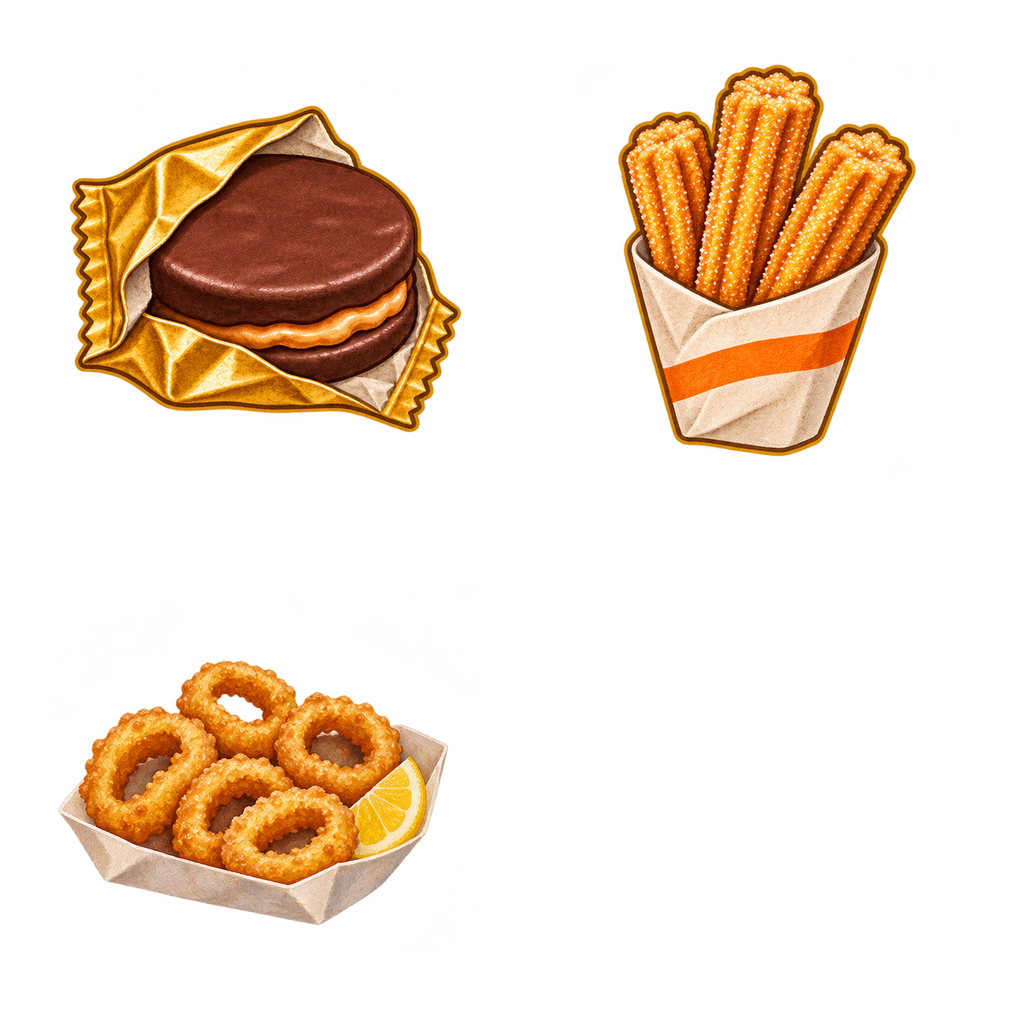
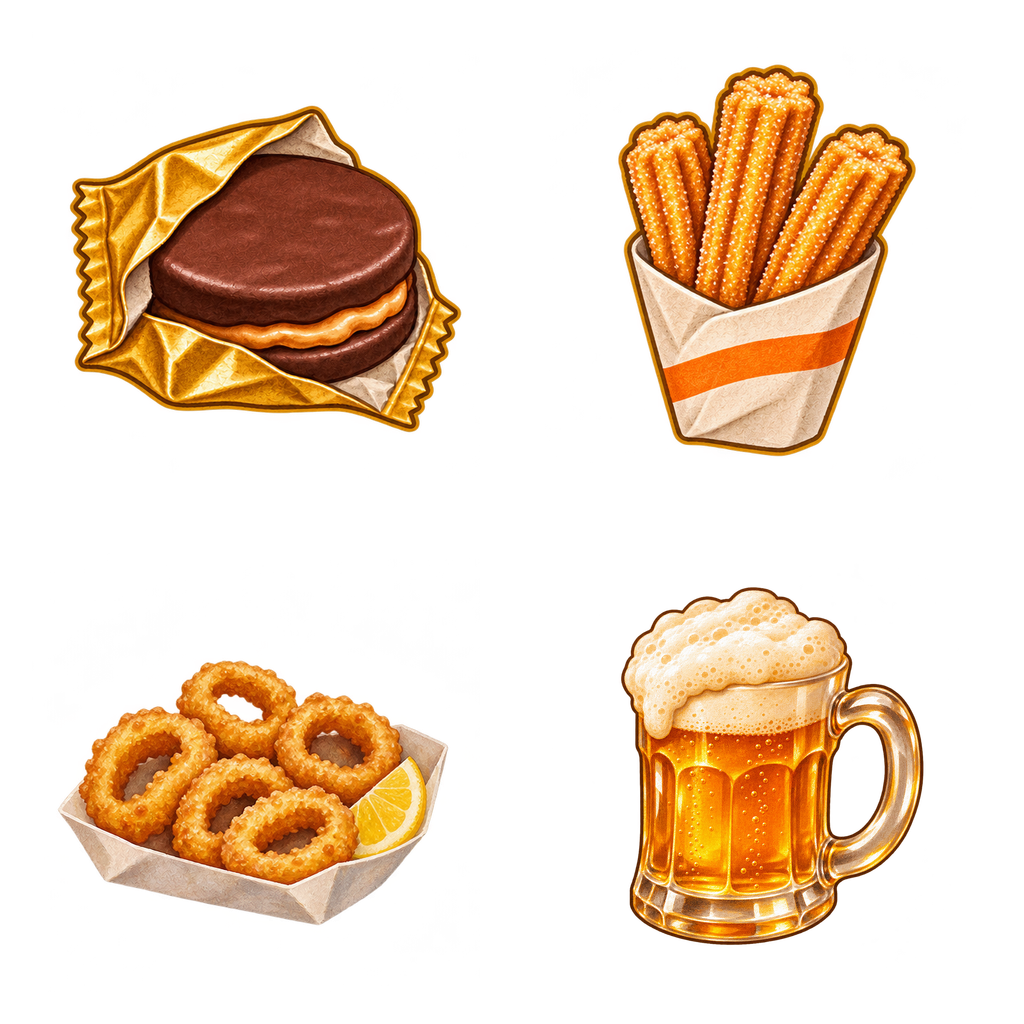
Fix mobile audio and controls, anchor columns, and diversify collectibles (#8)
* fix: align mobile audio and improve collectible variety

* fix: restore quiet input-driven bee wing feedback

* fix: synthesize harmonic bee buzz with AudioBits

* fix: remove bee movement sound

Changed region(s): [[0.5938, 0.5625, 0.9062, 0.9375]]

diff --git a/tests/browser/game.spec.ts b/tests/browser/game.spec.ts
@@ -1,6 +1,116 @@
 import { test, expect } from '@playwright/test';
 import { site } from '../../src/site.ts';
 
+declare global {
+  interface Window {
+    audioProbe: { contexts: AudioContext[]; resumes: string[]; oscillators: number; level(): number };
+  }
+}
+
+for (const touch of [false, true]) test.describe(touch ? 'touch audio' : 'desktop audio', () => {
+  test.use({ hasTouch: touch, viewport: touch ? { width: 390, height: 844 } : { width: 1280, height: 900 } });
+  test('movement stays silent while launch and pause/resume retain one audio context', async ({ page }) => {
+    const errors: string[] = [];
+    page.on('pageerror', error => errors.push(error.message));
+    const touchSession = touch ? await page.context().newCDPSession(page) : undefined;
+    await page.addInitScript(({ touch }) => {
+      const NativeContext = window.AudioContext;
+      let gesture = '';
+      for (const name of ['pointerdown', 'touchend', 'click', 'keydown']) {
+        window.addEventListener(name, () => {
+          gesture = name;
+          setTimeout(() => { gesture = ''; }, 0);
+        }, { capture: true });
+      }
+      const analysers: AnalyserNode[] = [];
+      const connect = AudioNode.prototype.connect;
+      AudioNode.prototype.connect = function (this: AudioNode, ...args: [AudioNode | AudioParam, number?, number?]) {
+        if (args[0] === this.context.destination) {
+          const analyser = analysers[window.audioProbe.contexts.indexOf(this.context as AudioContext)];
+          if (analyser) Reflect.apply(connect, this, [analyser]);
+        }
+        return Reflect.apply(connect, this, args);
+      } as typeof connect;
+      window.audioProbe = { contexts: [], resumes: [], oscillators: 0, level() {
+        const analyser = analysers[0];
+        if (!analyser) return 0;
+        const samples = new Float32Array(analyser.fftSize);
+        analyser.getFloatTimeDomainData(samples);
+        return Math.sqrt(samples.reduce((sum, sample) => sum + sample * sample, 0) / samples.length);
+      } };
+      window.AudioContext = class extends NativeContext {
+        constructor(options?: AudioContextOptions) {
+          super(options);
+          window.audioProbe.contexts.push(this);
+          const analyser = this.createAnalyser(); analyser.fftSize = 2048;
+          analysers.push(analyser);
+        }
+        resume() {
+          window.audioProbe.resumes.push(gesture);
+          // Model mobile eligibility explicitly: Chromium otherwise accepts a
+          // touch pointerdown that Safari/other mobile policies may reject.
+          if (touch && !['touchend', 'click', 'keydown'].includes(gesture)) return Promise.reject(new Error('Completed touch gesture required'));
+          return super.resume();
+        }
+        createOscillator() { window.audioProbe.oscillators++; return super.createOscillator(); }
+      };
+    }, { touch });
+    await page.goto('/');
+    const play = page.getByRole('button', { name: 'Play', exact: true });
+    await expect(play).toBeEnabled();
+    expect(await page.evaluate(() => window.audioProbe.contexts.length)).toBe(0);
+    if (touch) await play.tap(); else await play.click();
+    await expect(page.locator('.cloudwake-app')).toHaveAttribute('data-screen', 'playing');
+    await expect.poll(() => page.evaluate(() => window.audioProbe.contexts[0].state)).toBe('running');
+    await page.waitForTimeout(220);
+    expect(await page.evaluate(() => window.audioProbe.level())).toBe(0);
+    const holdRise = async () => {
+      if (touch) {
+        const box = (await page.getByRole('button', { name: 'Hold to rise' }).boundingBox())!;
+        await touchSession!.send('Input.dispatchTouchEvent', { type: 'touchStart', touchPoints: [{ x: box.x + box.width / 2, y: box.y + box.height / 2 }] });
+      } else await page.keyboard.down('Space');
+    };
+    const releaseRise = async () => {
+      if (touch) await touchSession!.send('Input.dispatchTouchEvent', { type: 'touchEnd', touchPoints: [] });
+      else await page.keyboard.up('Space');
+    };
+    if (touch) {
+      const rise = page.getByRole('button', { name: 'Hold to rise' });
+      // Check the actual label span too: the old symptom was a copy/select menu.
+      expect(await rise.locator('span').evaluate(element => {
+        const style = getComputedStyle(element);
+        const event = new Event('touchstart', { bubbles: true, cancelable: true });
+        return style.userSelect === 'none' && !element.dispatchEvent(event);
+      })).toBe(true);
+    }
+    await holdRise();
+    expect(await page.evaluate(() => window.audioProbe.level())).toBe(0);
+    await page.waitForTimeout(650); // Cross the native long-press threshold with a real held touch.
+    expect(await page.evaluate(() => window.audioProbe.level())).toBe(0);
+    expect(await page.evaluate(() => window.audioProbe.oscillators)).toBe(0);
+    expect(await page.evaluate(() => window.getSelection()?.toString())).toBe('');
+    await releaseRise();
+    await page.waitForTimeout(220);
+    expect(await page.evaluate(() => window.audioProbe.level())).toBe(0);
+    const stopped = await page.evaluate(() => window.audioProbe.oscillators);
+    await page.waitForTimeout(160);
+    expect(await page.evaluate(() => window.audioProbe.oscillators)).toBe(stopped);
+    await page.getByRole('button', { name: 'Pause', exact: true }).click();
+    await expect.poll(() => page.evaluate(() => window.audioProbe.contexts[0].state)).toBe('suspended');
+    const resume = page.getByRole('button', { name: 'Resume', exact: true });
+    if (touch) await resume.tap(); else await resume.click();
+    await expect.poll(() => page.evaluate(() => window.audioProbe.contexts[0].state)).toBe('running');
+    expect(await page.evaluate(() => window.audioProbe.level())).toBe(0);
+    await holdRise();
+    expect(await page.evaluate(() => window.audioProbe.level())).toBe(0);
+    await releaseRise();
+    expect(await page.evaluate(() => window.audioProbe.contexts.length)).toBe(1);
+    expect(await page.evaluate(() => window.audioProbe.resumes)).toEqual(touch ? ['click', 'click'] : ['pointerdown', 'click']);
+    await page.getByRole('button', { name: 'Pause', exact: true }).click();
+    expect(errors).toEqual([]);
+  });
+});
+
 test('standalone artwork retry unlocks flight and pause preserves a resumable run', async ({ page }) => {
   const errors: string[] = [];
   page.on('pageerror', error => errors.push(error.message));

diff --git a/src/game/presentation.ts b/src/game/presentation.ts
@@ -2,6 +2,7 @@ import { prepareImages, validateImageDimensions, type PreparedImages } from '../
 import { urls, sizes } from './art.ts';
 import type { Run, FlightEvent } from './game.ts';
 import { flight, viewScale, fragmentShape } from './content.ts';
+import type { CollectibleCell } from './collection.ts';
 import { minePosition, passageCenter, chapterAt, journeyLegs, type Passage } from './route.ts';
 
 /** Whole-cel roles, drawing footprints and anchors are independent of physics. */
@@ -30,7 +31,9 @@ export function gullFrame(elapsed: number, phase: number, reducedMotion = false)
 
 export function flightView(width: number, height: number) {
   const scale = viewScale(width, height);
-  return { scale, width: width / scale, y: (height - flight.height * scale) / 2, x: Math.max(0, width / scale * .2 - flight.playerX) };
+  const y = (height - flight.height * scale) / 2;
+  return { scale, width: width / scale, y, top: -y / scale, bottom: (height - y) / scale,
+    x: Math.max(0, width / scale * .2 - flight.playerX) };
 }
 
 /** Simulation retires hazards behind the flight slots; artwork lives to the viewport edge. */
@@ -80,13 +83,13 @@ export function createPresentation(surface: HTMLElement) {
   // A gameplay miss ends collection eligibility, not the gem's visible lifetime.
   // Keep its cosmetic image until the actual viewport edge eats it, including
   // the extra space behind the courier on wide displays.
-  const missedFragments: { x: number; y: number }[] = [];
+  const missedFragments: { x: number; y: number; cell: CollectibleCell }[] = [];
   let disposed = false, lastTime = 0, crashTime = -Infinity, checkpointTime = -Infinity, checkpointAt = NaN;
   surface.append(element);
   function reset() { passages.clear(); sparks.length = scores.length = missedFragments.length = 0; lastTime = 0; crashTime = checkpointTime = -Infinity; checkpointAt = NaN; }
   function consume(events: readonly FlightEvent[]) {
     for (const event of events) {
-      if (event.type === 'fragment-missed') { missedFragments.push({ x: event.x, y: event.y }); continue; }
+      if (event.type === 'fragment-missed') { missedFragments.push({ x: event.x, y: event.y, cell: event.cell }); continue; }
       if (event.type === 'crash') crashTime = lastTime;
       if (event.type === 'checkpoint') { checkpointTime = lastTime; checkpointAt = event.x; }
       if (event.type === 'pickup' && scores.length < 12) scores.push({ x: event.x, y: event.y, start: lastTime, points: event.points });
@@ -303,18 +306,17 @@ export function createPresentation(surface: HTMLElement) {
         ctx.restore();
       } else {
         const center = passageCenter(passage, run.elapsed), upper = center - passage.gap / 2, lower = center + passage.gap / 2;
-        if (passage.pattern === 'rise' || passage.pattern === 'gate' || passage.pattern === 'sway') stone(x, lower, passage.width, flight.height - lower + 32, false);
+        if (passage.pattern === 'rise' || passage.pattern === 'gate' || passage.pattern === 'sway') stone(x, lower, passage.width, view.bottom - lower + 1, false);
         if (passage.pattern === 'dive' || passage.pattern === 'gate' || passage.pattern === 'sway') {
-          stone(x, -32, passage.width, upper + 32, true);
+          stone(x, view.top - 1, passage.width, upper - view.top + 1, true);
         }
       }
     }
-    function drawFragment(fragment: { x: number; y: number }) {
+    function drawFragment(fragment: { x: number; y: number; cell: CollectibleCell }) {
       const x = fragment.x - distance;
       if (x + fragmentShape.halfWidth < -view.x || x - fragmentShape.halfWidth > worldWidth - view.x) return;
       ctx.globalAlpha = 1;
-      const variant = Math.round(fragment.x / 42) % 13;
-      const cell = variant === 0 ? 2 : variant < 4 ? 1 : 0;
+      const cell = fragment.cell;
       const tilt = motion.matches ? 0 : Math.sin(time * 2.5 + fragment.x) * .045;
       ctx.save(); ctx.translate(x,fragment.y); ctx.rotate(tilt);
       ctx.drawImage(images.objects!, cell % 2 * 512, Math.floor(cell / 2) * 512,512,512,-20,-20,40,40);

diff --git a/src/game/app.ts b/src/game/app.ts
@@ -78,13 +78,20 @@ export function mountBinweek(container: HTMLElement, fullscreen: FullscreenContr
       input?.clear(); clock.reset(); sound?.pause();
       if (screen === 'playing') { pauseRun(run, true); transition('paused', false); }
     }
-    // Start on press, preserving that same hold in the fresh run. Native clicks
-    // remain available for keyboard/assistive activation through the shared menu.
+    // Mouse launches preserve the hold. Touch launches use the native completed
+    // tap: touch pointerdown is not an audio-activating gesture on mobile browsers.
     for (const button of ui.launchButtons) button.addEventListener('pointerdown', event => {
-      if (event.button !== 0 || button.hidden || button.disabled) return;
+      if (event.pointerType === 'touch' || event.button !== 0 || button.hidden || button.disabled) return;
       event.preventDefault(); act(button.dataset.menuAction as Intent);
       if (screen === 'playing') input.holdPointer(event);
     }, { signal: host.signal });
+    // Retry interrupted audio from an accepted flight gesture using the same owner.
+    // Pointer presses are prevented for held controls, so touchend is explicit.
+    host.root.addEventListener('pointerdown', event => {
+      if (screen === 'playing' && event.pointerType !== 'touch' && event.button === 0) sound.activate();
+    }, { signal: host.signal, capture: true });
+    host.root.addEventListener('touchend', () => { if (screen === 'playing') sound.activate(); }, { signal: host.signal });
+    host.root.addEventListener('keydown', () => { if (screen === 'playing') sound.activate(); }, { signal: host.signal });
     host.root.addEventListener('keydown', event => {
       if (event.code !== 'Space' || event.repeat || event.defaultPrevented || event.altKey || event.ctrlKey || event.metaKey || event.isComposing) return;
       if (!ui.launchButtons.includes(event.target as HTMLButtonElement)) return;
@@ -101,7 +108,7 @@ export function mountBinweek(container: HTMLElement, fullscreen: FullscreenContr
       if (screen === 'playing') {
         const steps = clock.advance(now);
         for (let i = 0; i < steps && run.status === 'active'; i++) stepRun(run, input.read(), FIXED_STEP);
-        const events = takeEvents(run); presentation.consume(events); sound.consume(events, run.thrust);
+        const events = takeEvents(run); presentation.consume(events); sound.consume(events);
         if (run.status === 'crashed' || run.status === 'defeat' || run.status === 'victory') {
           outcomeAt = now;
           transition(run.status);

diff --git a/src/game/game.ts b/src/game/game.ts
@@ -1,11 +1,12 @@
 import { overlaps, sweptCircle } from '../engine/collision.ts';
 import { flight, fly, multiplierAt, slide, speedAt, fragmentShape, pickupRear, type Flyer } from './content.ts';
-import { touchesFragment } from './collection.ts';
+import { touchesFragment, collectibleCells, type CollectibleCell } from './collection.ts';
 import { createRoute, minePosition, nextPassage, passageCenter, safeGap, journeyLegs, type Passage, type Route } from './route.ts';
 
-export interface Fragment { x: number; y: number; collected: boolean }
+export interface Fragment { x: number; y: number; cell: CollectibleCell; collected: boolean }
 export type FlightEvent = { x: number; y: number } & (
-  { type: 'pickup'; points: number } | { type: 'crash' | 'checkpoint' | 'shield-ready' | 'shield-hit' | 'fragment-missed' | 'victory' }
+  { type: 'pickup'; points: number } | { type: 'fragment-missed'; cell: CollectibleCell }
+  | { type: 'crash' | 'checkpoint' | 'shield-ready' | 'shield-hit' | 'victory' }
 );
 interface Progress {
   elapsed: number; distance: number; speed: number; score: number; player: Flyer;
@@ -35,9 +36,10 @@ function populate(run: Progress) {
   while (run.route.leg < journeyLegs && run.route.previous.x < run.distance + 1800) {
     const passage = nextPassage(run.route);
     run.passages.push(passage);
+    const cells = collectibleCells(run.route.seed);
     // A small arc in the certified corridor rewards deliberate height control.
     for (let i = 0; i < 5; i++) run.fragments.push({ x: passage.x - 100 + i * 42,
-      y: passage.center + Math.sin(i / 4 * Math.PI) * (passage.id % 2 ? 1 : -1) * Math.max(0, Math.min(32, safeGap(passage) / 2 - 65)), collected: false });
+      y: passage.center + Math.sin(i / 4 * Math.PI) * (passage.id % 2 ? 1 : -1) * Math.max(0, Math.min(32, safeGap(passage) / 2 - 65)), cell: cells[i]!, collected: false });
   }
 }
 export function pauseRun(run: Run, paused: boolean) {
@@ -113,7 +115,7 @@ export function stepRun(run: Run, action: { thrust: boolean; strafe?: number; sl
       }
     } else if (fragment.x < missed) {
       run.chain = 0;
-      run.events.push({ type: 'fragment-missed', x: fragment.x, y: fragment.y });
+      run.events.push({ type: 'fragment-missed', x: fragment.x, y: fragment.y, cell: fragment.cell });
     }
   }
   run.score = Math.floor(run.distance / 10) + run.pickupPoints;

diff --git a/src/game/ui.ts b/src/game/ui.ts
@@ -26,7 +26,7 @@ export function createUI(root: HTMLElement, surface: HTMLElement, signal: AbortS
     id: 'binweek', title: 'Binagora Week 2026', signal, pause,
     gameplayUI: root.querySelectorAll<HTMLElement>(':scope > header, :scope > footer, .cloudwake-flight-status'),
     onAction: act, onMute: mute, onFullscreen: () => act('fullscreen'), game: results.element,
-    controls: `<div class="binweek-guide"><section><h3>Find your wings</h3><p>Hold <kbd>Space</kbd>, W, ↑, or the playfield to rise. Release to fall. Slide with A / D, ← / →, or sideways drag. Touch controls work too.</p></section><section><h3>Follow the snacks</h3><p>Alfajores, churros and rabas start at +25. Every five consecutive pickups raise your multiplier, up to ×4. A miss resets the streak. ${flight.shieldFragments} snacks charge a five-second, one-hit Hive Shield.</p></section><section><h3>Meet the hive</h3><p>Avoid stone structures and snack-stealing gulls. You have three lives. Orange # beacons save your progress. Continue restores that checkpoint without refilling lives. Reach the Hermitage to reunite.</p></section></div>`,
+    controls: `<div class="binweek-guide"><section><h3>Find your wings</h3><p>Hold <kbd>Space</kbd>, W, ↑, or the playfield to rise. Release to fall. Slide with A / D, ← / →, or sideways drag. Touch controls work too.</p></section><section><h3>Follow the snacks</h3><p>Alfajores, churros, rabas and beer start at +25. Every five consecutive pickups raise your multiplier, up to ×4. A miss resets the streak. ${flight.shieldFragments} collectibles charge a five-second, one-hit Hive Shield.</p></section><section><h3>Meet the hive</h3><p>Avoid stone structures and snack-stealing gulls. You have three lives. Orange # beacons save your progress. Continue restores that checkpoint without refilling lives. Reach the Hermitage to reunite.</p></section></div>`,
     actions: [menuActions.start, menuActions.resume, { id: 'continue', label: 'Continue', screens: ['crashed'], primary: true }, { ...menuActions.restart, screens: ['paused', 'crashed', 'defeat', 'victory'] }],
   });
   const header = menu.layer.querySelector('.game-menu-header')!;

diff --git a/src/game/sound.ts b/src/game/sound.ts
@@ -8,12 +8,12 @@ export function createSound(onStatus: (message: string) => void) {
   const cooldowns = createCooldowns<keyof typeof binweekRecipes>();
   return { ...audio,
     reset() { cooldowns.clear(); audio.reset(); },
-    consume(events: readonly FlightEvent[], thrust: boolean) {
+    consume(events: readonly FlightEvent[]) {
       cooldowns.advance(audio.time);
-      for (const cue of ['victory', 'crash', 'shield-hit', 'checkpoint', 'shield-ready', 'pickup', 'thrust'] as const) {
-        if (!(cue === 'thrust' ? thrust : events.some(event => event.type === cue)) || !cooldowns.allows(cue)) continue;
+      for (const cue of ['victory', 'crash', 'shield-hit', 'checkpoint', 'shield-ready', 'pickup'] as const) {
+        if (!events.some(event => event.type === cue) || !cooldowns.allows(cue)) continue;
         if (cue === 'crash' || cue === 'victory') { audio.reset(); cooldowns.clear(); }
-        if (audio.play(cue)) cooldowns.record(cue, cue === 'thrust' ? .14 : cue === 'pickup' ? .065 : .5);
+        if (audio.play(cue)) cooldowns.record(cue, cue === 'pickup' ? .065 : .5);
         if (cue === 'crash' || cue === 'victory') break;
       }
     },

diff --git a/src/engine/browser/buttons.ts b/src/engine/browser/buttons.ts
@@ -13,6 +13,11 @@ export function bindButtons<Action extends string>({ surface, controls, bindings
   const heldKeys = new Set<string>(), pressed = new Set<Action>();
   const pointers = new Map<number, { actions: ReadonlySet<Action>; target: HTMLElement }>();
   const entries = Object.entries(controls) as [Action, HTMLButtonElement][];
+  // iOS can still begin native long-press selection after a prevented pointerdown.
+  // These held game controls own touch gestures, including their label spans.
+  for (const target of [surface, ...Object.values(controls) as HTMLButtonElement[]]) {
+    target.addEventListener('touchstart', event => event.preventDefault(), { passive: false, signal });
+  }
   const down = (action: Action) => [...heldKeys].some(code => keys.get(code) === action) || [...pointers.values()].some(p => p.actions.has(action));
   function reflect() { for (const [action, button] of entries) button.toggleAttribute('data-held', down(action)); }
   function hold(id: number, target: HTMLElement, actions: ReadonlySet<Action>) {

diff --git a/src/game/sound-recipes.ts b/src/game/sound-recipes.ts
@@ -18,13 +18,6 @@ export const binweekRecipes = {
   checkpoint: chime(659.25, .8),
   'shield-ready': chime(987.77, .55),
   'shield-hit': chime(392, .28),
-  thrust: defineSound({ schemaVersion: 1, kind: 'one-shot', duration: .14, layers: [
-    { id: 'wing-air', source: { type: 'noise', color: 'white' }, gainDb: -37,
-      envelope: { attack: .025, decay: .08, sustain: .12, release: .03 },
-      effects: [{ type: 'filter', filter: 'bandpass', frequency: 900, q: .7 }] },
-    { id: 'wingbeat', source: { type: 'oscillator', waveform: 'sine', frequency: { points: [[0, 175], [.13, 210]], curve: 'linear' } }, gainDb: -39,
-      envelope: { attack: .025, decay: .08, sustain: .1, release: .03 } },
-  ] }),
   crash: defineSound({ schemaVersion: 1, kind: 'one-shot', duration: .55, layers: [
     { id: 'impact', source: { type: 'noise', color: 'white' }, gainDb: -25,
       envelope: { attack: .002, decay: .2, sustain: 0, release: .05 },

diff --git a/src/engine/browser/audio.ts b/src/engine/browser/audio.ts
@@ -1,7 +1,7 @@
 import { createAudio, type AudioEngine, type Recipe, type Sound, type PlayOptions } from 'audiobits';
 
 export const MAX_VOICES = 12;
-const unavailable = 'Sound unavailable. Play continues silently. Use Start, Retry or Resume to try again.';
+const unavailable = 'Sound unavailable. Tap a flight control or use Play or Resume to try again.';
 
 /** One session owns one lazy AudioBits engine. No game events, recipes or scheduling live here. */
 export function createGameAudio<Cue extends string>(recipes: Readonly<Record<Cue, Recipe>>, onStatus: (message: string) => void) {
@@ -38,6 +38,7 @@ export function createGameAudio<Cue extends string>(recipes: Readonly<Record<Cue
   function activate() {
     if (disposed) return;
     paused = false;
+    if (ready && engine?.state === 'running') return;
     const token = ++generation;
     ready = false;
     if (!audible()) return;

diff --git a/src/game/collection.ts b/src/game/collection.ts
@@ -1,4 +1,19 @@
 import { fragmentShape, pickupHull } from './content.ts';
+
+export type CollectibleCell = 0 | 1 | 2 | 3;
+/** Shuffle one small bag per arc, independently of route generation. Alfajores
+ * stay the signature reward while every arc includes churros, rabas and beer. */
+export function collectibleCells(seed: number): CollectibleCell[] {
+  const cells: CollectibleCell[] = [0, 0, 1, 2, 3];
+  let state = seed >>> 0 || 1;
+  for (let i = cells.length - 1; i > 0; i--) {
+    state ^= state << 13; state ^= state >>> 17; state ^= state << 5;
+    const j = (state >>> 0) % (i + 1);
+    [cells[i], cells[j]] = [cells[j]!, cells[i]!];
+  }
+  return cells;
+}
+
 interface Point { x: number; y: number }
 const diamond = [
   { x: 0, y: -fragmentShape.halfHeight }, { x: fragmentShape.halfWidth, y: 0 },

diff --git a/docs/game.md b/docs/game.md
@@ -4,7 +4,7 @@
 
 ## Flight and recovery
 
-Hold Space, W, ↑, mouse/touch on the playfield, or Rise to ascend. Release to descend. A/D, ←/→, touch arrows or sideways drag slide inside the fixed scrolling view. The launch press also applies thrust. Flight acceleration, braking, speed milestones, lateral motion, narrow-screen warning time and three lives retain the extracted game's behavior. The edges cushion contact. Solid structures and gulls cost one life per unshielded crash.
+Hold Space, W, ↑, mouse/touch on the playfield, or Rise to ascend. Release to descend. A/D, ←/→, touch arrows or sideways drag slide inside the fixed scrolling view. Mouse and keyboard launch presses also apply thrust. Touch launch waits for a completed tap so mobile browsers can activate audio before flight. Flight acceleration, braking, speed milestones, lateral motion, narrow-screen warning time and three lives retain the extracted game's behavior. The edges cushion contact. Solid structures and gulls cost one life per unshielded crash.
 
 The seeded route retains actual-physics clearance certification, shared moving-obstacle positions and safe collectible arcs. Later coastal openings are deliberately wider (230, 220, 214 and 210 units before moving-opening adjustments) than the endless game's late challenges. There is no generation beyond the fifth checkpoint. A final clear-air approach reveals the hotel before arrival.
 
@@ -12,9 +12,9 @@ Event hash beacons activate once: “Checkpoint committed.” Continue restores 
 
 ## Collectibles and collision
 
-Alfajores are the recurring reward, with churros and crispy rabas with lemon as occasional appearances. All share one score and shield path. Distance awards one point per displayed meter. Collectibles start at 25 points; five consecutive pickups raise subsequent values through ×2, ×3 and ×4. Missing a reward behind the rear flight slot resets the streak once. Cosmetic missed rewards remain until the viewport clips them.
+Alfajores, churros, crispy rabas with lemon and foamy beer mugs share each five-item arc. Each arc independently shuffles a seeded bag containing two alfajores and one of each other item. Checkpoint retries preserve the same items and order, and food selection never consumes the route generator’s random state. All share one score and shield path. Distance awards one point per displayed meter. Collectibles start at 25 points; five consecutive pickups raise subsequent values through ×2, ×3 and ×4. Missing a reward behind the rear flight slot resets the streak once. Cosmetic missed rewards remain until the viewport clips them.
 
-The bee deliberately replaces the rider/scooter pickup hull with a body-and-bag octagon spanning ±25 units horizontally and −23 to +25 vertically. Wings and antennae are decorative. The forgiving 16-unit circular hazard body is unchanged. Rewards use a 13-by-13 half-size diamond envelope, replacing the narrow crystal's 10-by-15 envelope. Swept collection still catches fast travel and lateral crossings. Stone fills the actual top/bottom collision regions, and the gull uses the original moving hazard's 35-unit radius and position.
+The bee deliberately replaces the rider/scooter pickup hull with a body-and-bag octagon spanning ±25 units horizontally and −23 to +25 vertically. Wings and antennae are decorative. The forgiving 16-unit circular hazard body is unchanged. Rewards use a 13-by-13 half-size diamond envelope, replacing the narrow crystal's 10-by-15 envelope. Swept collection still catches fast travel and lateral crossings. Stone fills the actual top/bottom collision regions and extends to the visible canvas edges on tall screens. The gull uses the original moving hazard's 35-unit radius and position.
 
 Thirty collectibles charge a five-second Hive Shield. Its bubble and meter show live protection. One hit breaks it immediately, allowing that contact to finish safely. Another obstacle or contact after separation is dangerous. Unused protection expires, charge carries across misses, and checkpoint continuation restores only its saved state.
 
@@ -22,8 +22,8 @@ Thirty collectibles charge a five-second Hive Shield. Its bubble and meter show 
 
 Binagora's unmodified official logo sits in a padded light menu. Orange `#F59E2B`, gray `#4A4A4A`, charcoal, cream and Atlantic blue carry the event identity. Complete authored bee cels have textured fur, amber sunglasses, veined wings, antennae, tilt, collection delight and a small travel bag. Original coastal plates, solid stone hazards, food atlas and hotel elevation replace the prior fantasy art. The Rambla's two iconic stone sea-lion monuments frame the last scene and never appear as collectible souvenirs. Each panorama appears once, traveling steadily left with a bounded pan. Faster foam, drifting clouds, fishing boats, cabanas, snack carts and Rambla lamps add depth. Four-second complete-scene dissolves join every checkpoint leg. Architecture never repeats or mirrors. Narrow views retain the coastline across their width. Passing laptop workstations and a bespectacled sea-lion code reviewer add developer and AI jokes such as “git checkout -- playa”, “Prompt: más churros.” and “LLM: Lobo Language Model”. [Art contracts and provenance](../src/game/art/README.md) describe assets and packing.
 
-The Hermitage arrival ends hazards and scoring. A roughly 3.5-second decorative glide joins a large bounded crowd of bees below the complete hotel frontage. “Welcome to Binagora Week 2026” and “The whole hive, together.” accompany honest current-run results and an immediately available Restart button. The full crowd is awarded for reaching the destination. Confetti ends after four seconds, while reduced motion shows the complete static welcome. Food and the illustrated LGTM sea lion remain supporting details. Three complete, body-aligned gull cels cycle through upstroke, glide and downstroke with short gliding rests. Its bank follows the existing hazard path, without a circular halo or additional collision motion.
+The Hermitage arrival ends hazards and scoring. A roughly 3.5-second decorative glide joins a large bounded crowd of bees below the complete hotel frontage. “Welcome to Binagora Week 2026” and “The whole hive, together.” accompany honest current-run results and an immediately available Restart button. The full crowd is awarded for reaching the destination. Confetti ends after four seconds, while reduced motion shows the complete static welcome. Collectibles and the illustrated LGTM sea lion remain supporting details. Three complete, body-aligned gull cels cycle through upstroke, glide and downstroke with short gliding rests. Its bank follows the existing hazard path, without a circular halo or additional collision motion.
 
-AudioBits recipes provide restrained wing feedback, collection, shield, checkpoint and crash cues, with an ascending three-note arrival fanfare. The existing session owns gesture activation, resource limits, cancellation, mute, focus suspension and disposal. Pause freezes active rules and cosmetic flight effects. Required artwork must validate and draw before Play or Resume; retry and renderer recovery preserve that gate.
+Flight and movement are silent. AudioBits recipes cover collection, shield, checkpoint and crash cues, with an ascending three-note arrival fanfare. The existing session owns gesture activation, resource limits, cancellation, mute, focus suspension and disposal. Pause freezes active rules and cosmetic flight effects. Required artwork must validate and draw before Play or Resume; retry and renderer recovery preserve that gate.
 
 The title keeps the reunion invitation, flight length, essential controls, mute, fullscreen and Play visible together. The official Binagora logo links to the company website. A GitHub link at the end of the title credit, with its name and an external-link arrow, opens this repository. It stays off the flight guide, the pause menu and the run. How to play opens a separate flight guide with the same sound/fullscreen controls and the scoring, shield and checkpoint rules. The guide returns to the same title or pause screen with keyboard focus restored. Short landscape menus use two columns, and long help content can scroll while its Back action stays visible. The ending uses a compact centered Restart button beneath the results.

diff --git a/src/game/art/README.md b/src/game/art/README.md
@@ -11,7 +11,7 @@ The hotel illustration references the [official hotel](https://www.hermitagehote
 | File | Contract |
 | --- | --- |
 | `courier.webp` | 1024×1024 transparent sheet, four complete 512×512 bee cels: glide, thrust, delight, glide alternate |
-| `objects.webp` | 1024×1024 transparent atlas: top-left alfajor, top-right churros, bottom-left rabas and lemon, bottom-right unused |
+| `objects.webp` | 1024×1024 transparent atlas: top-left alfajor, top-right churros, bottom-left rabas and lemon, bottom-right foamy beer mug (chopp) |
 | `gull.webp` | 1536×512 transparent strip: three complete 512×512 cels, upstroke / glide / downstroke, aligned body pivots |
 | `scenery.webp` | 1024×1024 transparent atlas: fishing boat, cabana/surfboard, Rambla lamp/balustrade, rabas cart |
 | `reviewer.webp` | 768×384 transparent complete sea-lion code reviewer, laptop and LGTM picnic table |
@@ -25,14 +25,16 @@ The detailed charcoal bee wears amber sunglasses and a travel satchel, with text
 
 Landmarks never tile or mirror. Each panorama fits across the viewport, with its quiet top sky extended upwards on tall screens so the coastline and both monuments remain visible. A monotonic exponential pan consumes at most 28 percent of viewport width from a 128-percent-wide plate. It never wraps, reverses or resets at a checkpoint. Clouds, foam and whole shoreline props travel at increasing depths; a fishing boat sits on water rather than the promenade. Reduced motion freezes these layers. Chapter dissolves use elapsed simulation time relative to the saved checkpoint, so pause freezes them and continuation restores the outgoing scene. The final checkpoint retains the Rambla. Coastal laptop vignettes pass using saved distance and dissolve with their place, including the Lobo Language Model and the illustrated LGTM reviewer, without entering simulation state.
 
-Solid promenade piers fill the actual top/bottom collision regions. Their painted irregular quartzite, pale stepped cornices and terracotta flight edges interpret the city's coastal stonework. The municipal [city guide](https://www.turismomardelplata.gob.ar/asp/sp/la-ciudad.htm) identifies local quartzite as “piedra Mar del Plata”, and the national [Chalet Ave María heritage entry](https://www.argentina.gob.ar/capital-humano/cultura/monumentos/chalet-ave-maria) describes the local architectural use of stone and natural materials. These are material references, not replicas of individual landmarks. Promenade supports suit the rectangular flight hazards better than pitched-roof chalets or recognizable towers hanging upside down. The original gray block grid and industrial warning stripes are replaced by one painted material with Canvas-owned moldings. The material repeats at a fixed 128-world-unit size, anchored to each pier without stretching as openings move. Cornices stay inside the solid collision rectangles. Event beacons are Canvas-authored orange hash badges with a one-time activation bloom. Crowd members repeat the complete bee cels with bounded pose, direction, cup and scarf variants. The complete illustrated reviewer and the Canvas-owned captions and confetti have no simulation rules.
+Solid promenade piers fill the actual top/bottom collision regions and extend through the extra sky and shore to the visible canvas edges in portrait views. Their painted irregular quartzite, pale stepped cornices and terracotta flight edges interpret the city's coastal stonework. The municipal [city guide](https://www.turismomardelplata.gob.ar/asp/sp/la-ciudad.htm) identifies local quartzite as “piedra Mar del Plata”, and the national [Chalet Ave María heritage entry](https://www.argentina.gob.ar/capital-humano/cultura/monumentos/chalet-ave-maria) describes the local architectural use of stone and natural materials. These are material references, not replicas of individual landmarks. Promenade supports suit the rectangular flight hazards better than pitched-roof chalets or recognizable towers hanging upside down. The original gray block grid and industrial warning stripes are replaced by one painted material with Canvas-owned moldings. The material repeats at a fixed 128-world-unit size, anchored to each pier without stretching as openings move. Cornices stay inside the solid collision rectangles. Event beacons are Canvas-authored orange hash badges with a one-time activation bloom. Crowd members repeat the complete bee cels with bounded pose, direction, cup and scarf variants. The complete illustrated reviewer and the Canvas-owned captions and confetti have no simulation rules.
 
 ## Repacking
 
-Run `pnpm art:pack`. The 1254×1254 bee source resizes as a whole sheet to 1024×1024, preserving alpha and fixed cell boundaries. Do not independently trim bee frames. The original `sources/objects.png` remains the authoring input for the complete alfajor and churros cels. The top-left quadrant of `sources/snacks-gull.png` supplies rabas. These food cells are contained in 448×448 areas with 32-pixel padding.
+Run `pnpm art:pack`. The 1254×1254 bee source resizes as a whole sheet to 1024×1024, preserving alpha and fixed cell boundaries. Do not independently trim bee frames. The original `sources/objects.png` remains the authoring input for the complete alfajor and churros cels. The top-left quadrant of `sources/snacks-gull.png` supplies rabas. The complete transparent `sources/beer.png` supplies the fourth cell. These food cells are contained in 448×448 areas with 32-pixel padding.
 
 The other three quadrants of `snacks-gull.png` each contain an entire bird. Explicit source body pivots in `pack.mjs` align them at (256, 280) after a uniform 401/627 resize; do not independently fit birds to their wing bounds. The source sheet remains untouched. `scenery.png` resizes as a whole sheet to 1024×1024. `reviewer.png` is contained in a 768×384 transparent frame. Scenery/reviewer use high-quality WebP with full-quality alpha; bird and food use lossless WebP. All five coastal plates and the hotel encode at 1536×1024.
 
 `sources/quartzite.png` is an original opaque material illustration generated with the built-in image tool using `sources/beach.png` as a style reference. It resizes as a whole to 512×512 high-quality WebP. The source and exact prompt are retained alongside the other original artwork under MIT.
 
 Original PNGs and exact production prompts remain authoring inputs and do not enter the browser build. `art.ts` validates decoded dimensions before play; `presentation.ts` owns footprints, cells and pivots. All runtime paths are static and relative.
+
+`sources/beer.png` is an original transparent beer mug generated with the built-in image tool using the existing food atlas as a style reference. Its exact prompt is retained in `prompts.json` and its original artwork is covered by MIT.
